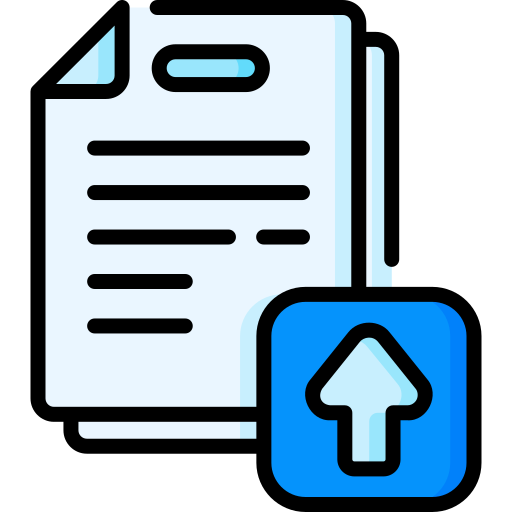
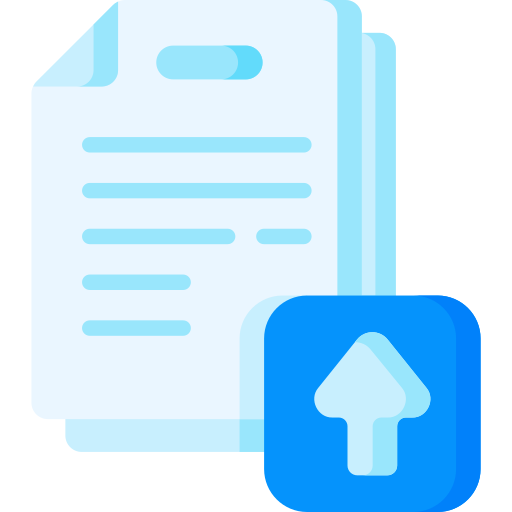
cambio de iconos

diff --git a/4Resultados.html b/4Resultados.html
@@ -90,12 +90,6 @@
                         0 0 200px #15bef0;
             -webkit-box-reflect: below 1px linear-gradient(transparent, #0005);
         }
-        .demand {
-            width: 500px;
-            height: auto;
-            display: block;
-            margin: 20px auto; /* Centra la imagen horizontalmente */
-        }
         
         #fileInput {  /* para ocultar el boton de seleccionar por default */
             display: none;
@@ -104,7 +98,8 @@
             padding: 0px;
             width: 10%;
             height: 10%;
-            position: center ;
+            position:-webkit-sticky ;
+            
 
         }
         
